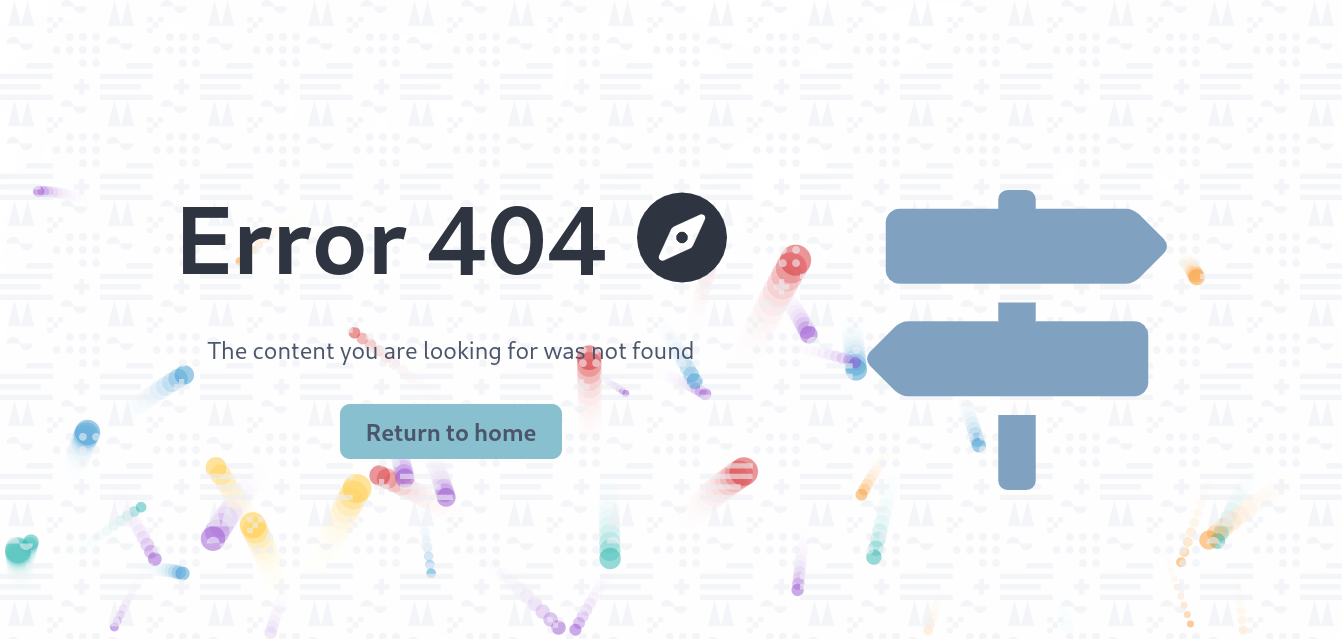
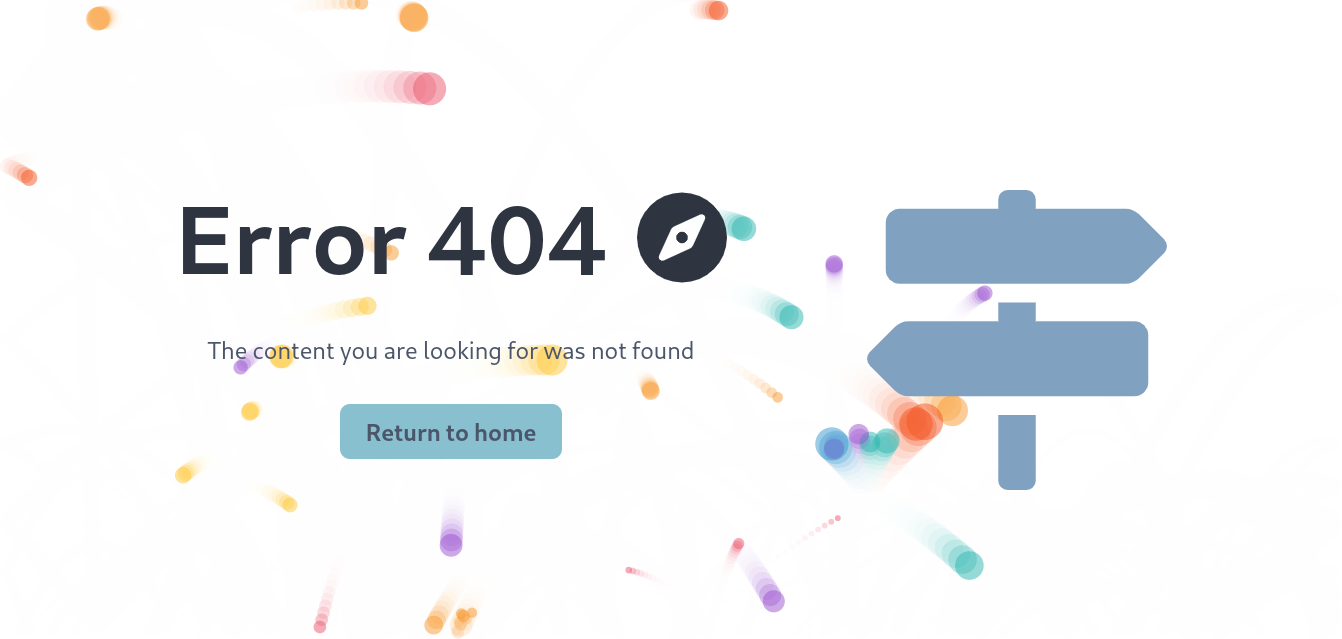
[REMOVE] css pattern

diff --git a/nord/index.css b/nord/index.css
@@ -4,7 +4,6 @@
   --blue-1-color: #81A1C1;
   --blue-2-color: #88C0D0;
   --bg-color: #ffffff;
-  --bg-pattern: url('./assets/background.svg');
 
   --sm-font-size: 1.6rem;
   --lg-font-size: 2.4rem;
@@ -58,7 +57,6 @@ body,h1,h2,h3,p,a {
   height: 100vh;
   width: 100vw;
   z-index: 1;
-  background-image: var(--bg-pattern);
   display: flex;
   justify-content: center;
   align-items: center;
